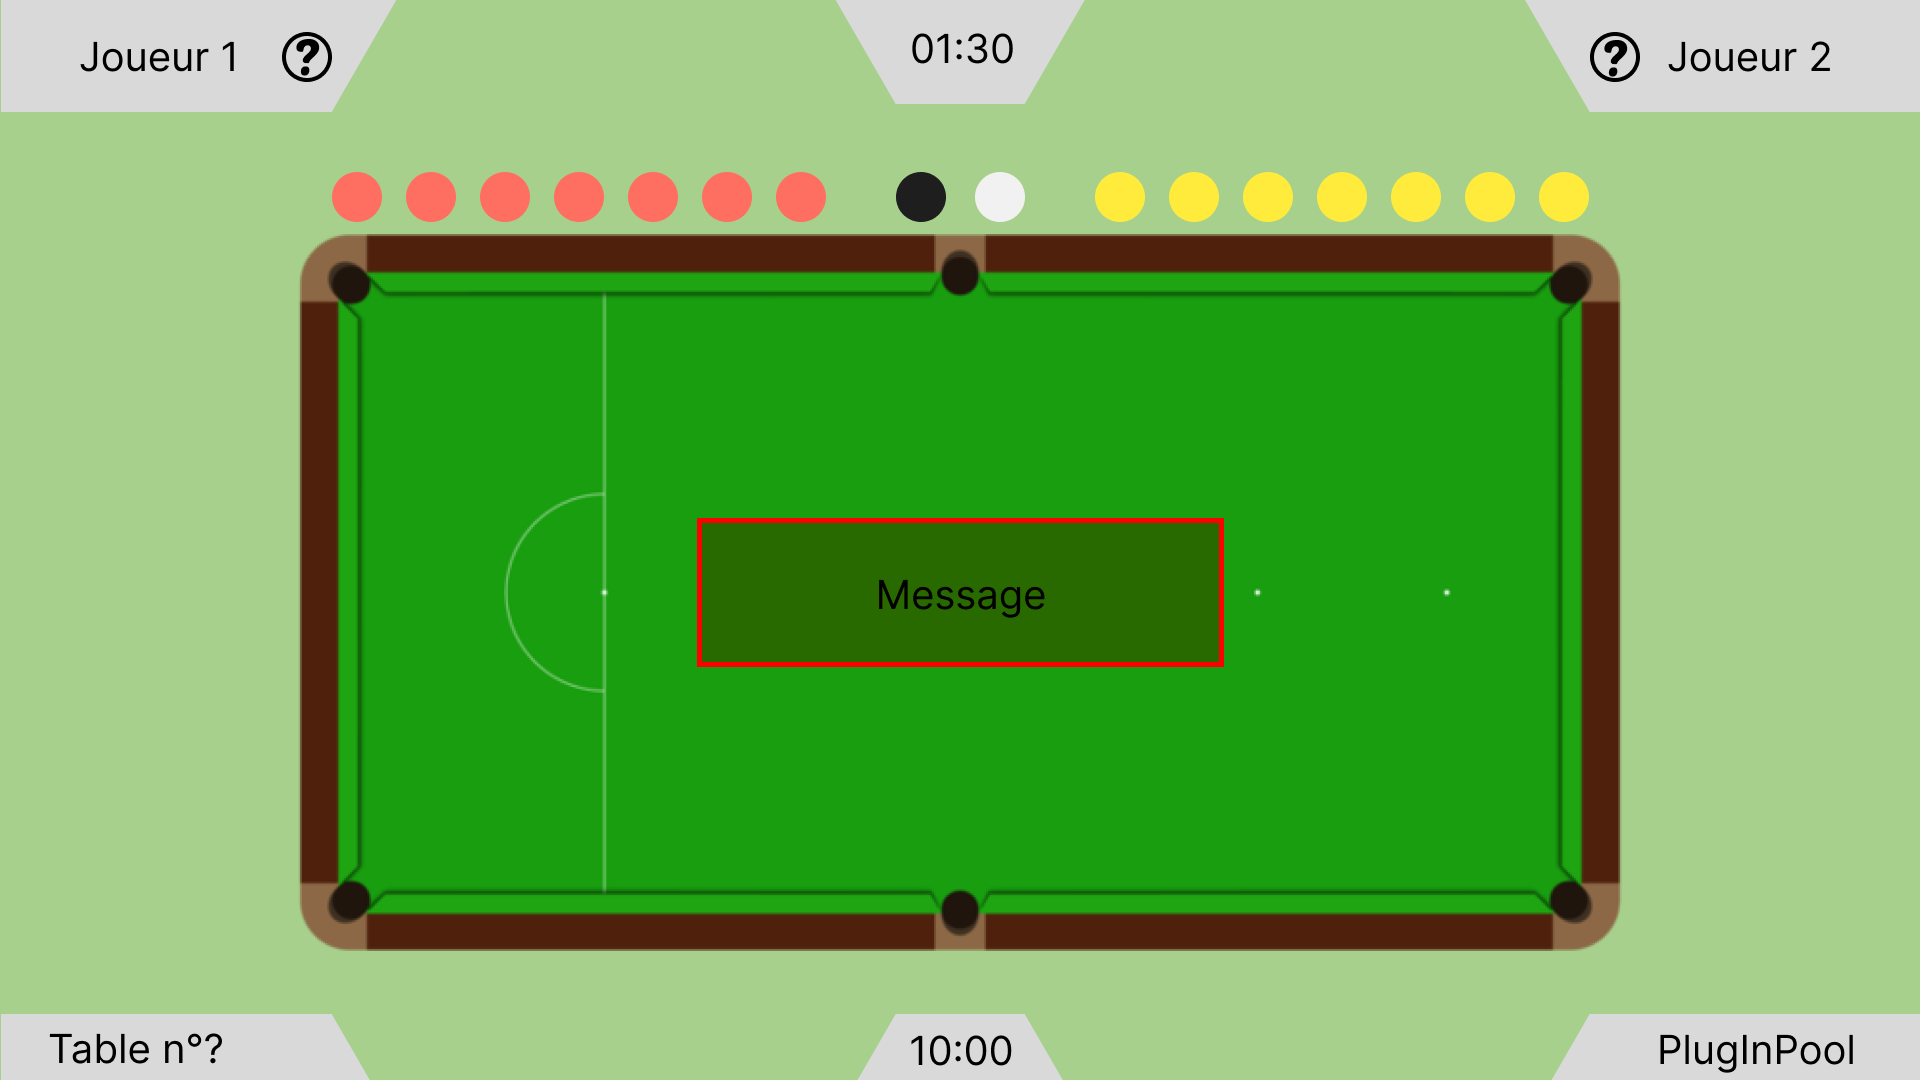
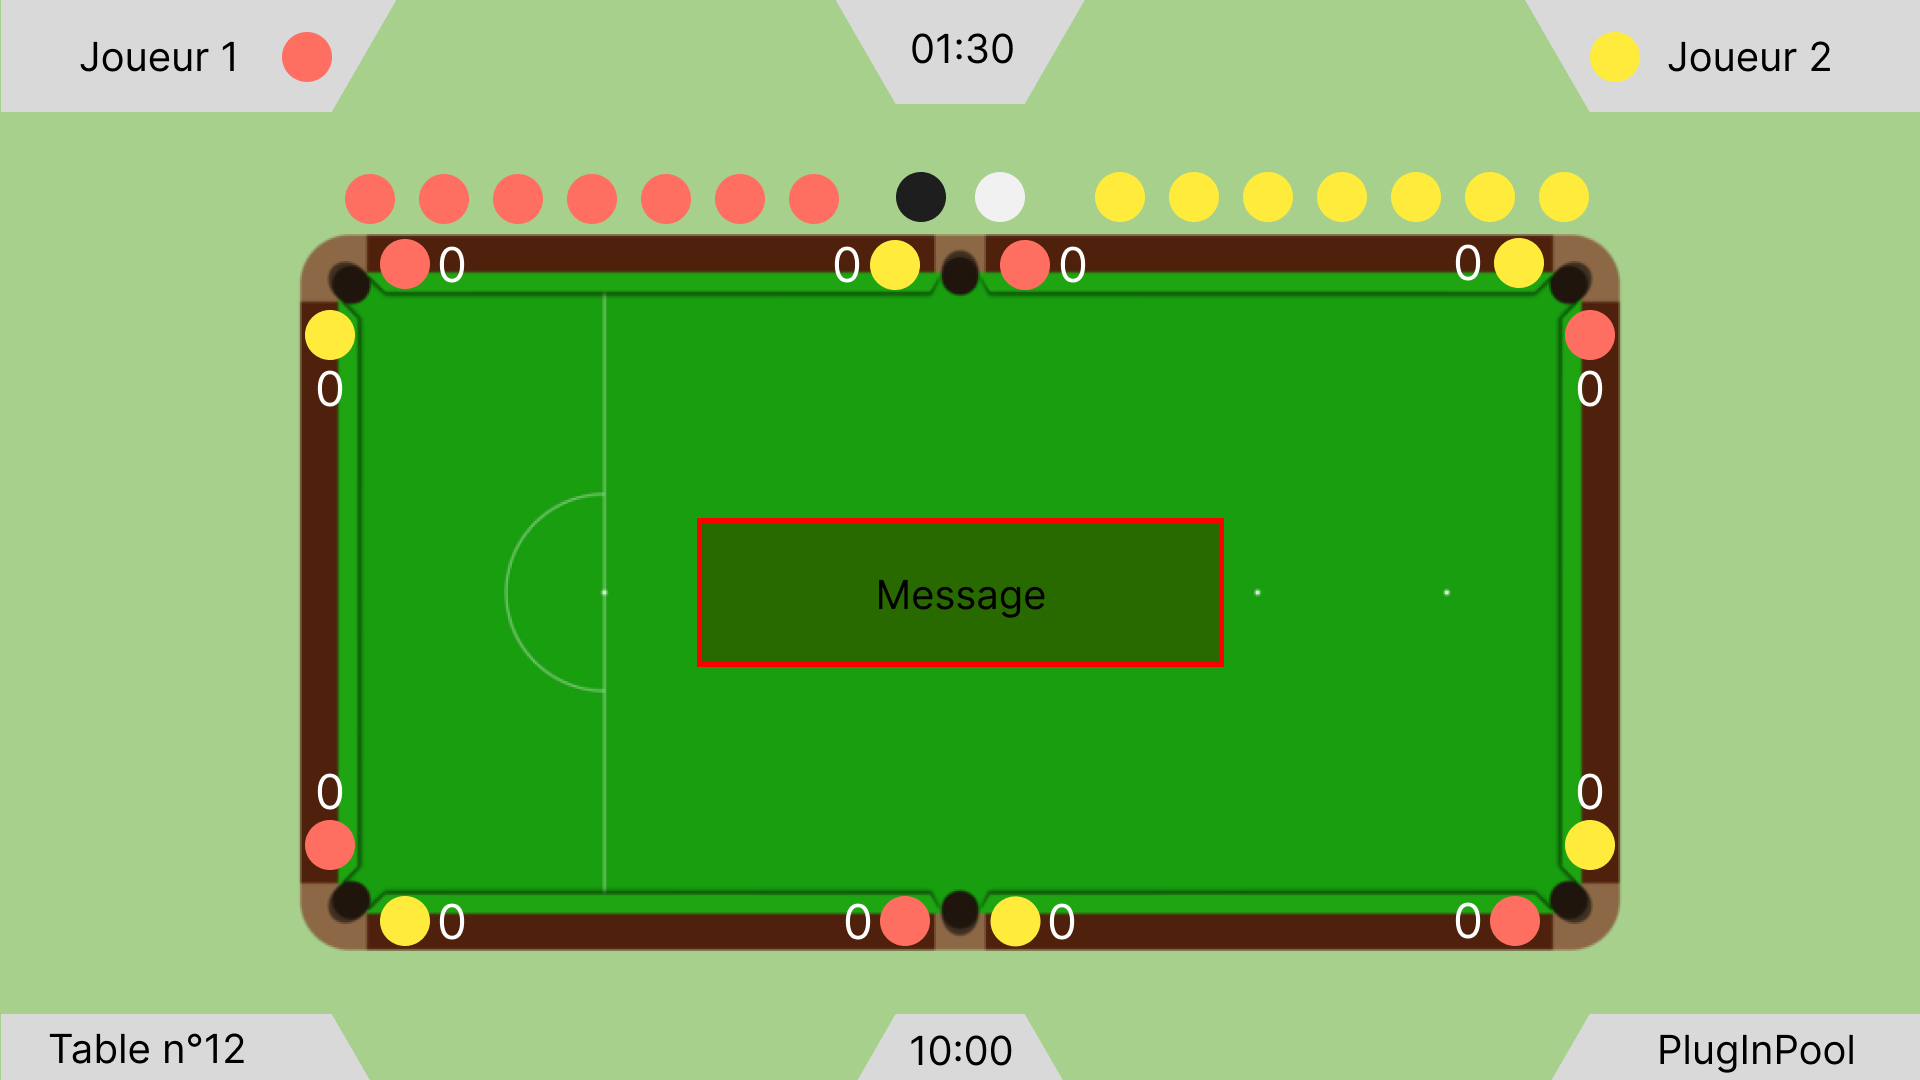
Ajouter constantes

diff --git a/plug-in-pool-visualisation/pluginpool.css b/plug-in-pool-visualisation/pluginpool.css
@@ -197,6 +197,11 @@ QLabel#bouleNoir {
     background-size: contain;
 }
 
+QWidget#poche {
+    background-color: none;
+    background-position: center;
+}
+
 .bouleJaunePoche {
     background-image: url(:/bouleJauneQT.png);
     background-color: yellow;
@@ -312,6 +317,7 @@ QLabel#bouleJauneImagePoche1{
     background-position: center;
     background-repeat: no-repeat;
     background-size: contain;
+
 }
 
 QLabel#bouleJauneImagePoche2{

diff --git a/plug-in-pool-visualisation/ecranmatch.cpp b/plug-in-pool-visualisation/ecranmatch.cpp
@@ -80,13 +80,13 @@ QWidget* EcranMatch::getEcran() const
 
 QLabel* EcranMatch::getJoueurUnLabel() const
 {
-    qDebug() << "Adresse QLabel (affichageJoueurUn): " << affichageJoueurUn;
+    qDebug() << "Adresse QLabel affichageJoueurUn: " << affichageJoueurUn;
     return affichageJoueurUn;
 }
 
 QLabel* EcranMatch::getJoueurDeuxLabel() const
 {
-    qDebug() << "Adresse QLabel (affichageJoueurDeux): " << affichageJoueurDeux;
+    qDebug() << "Adresse QLabel affichageJoueurDeux: " << affichageJoueurDeux;
     return affichageJoueurDeux;
 }
 
@@ -102,71 +102,48 @@ void EcranMatch::demarrerChronometre()
     connect(chronometre, &QTimer::timeout, this, [=]() {
         secondesEcoulees++;
 
-        int minutes  = secondesEcoulees / 60;
-        int secondes = secondesEcoulees % 60;
+        int minutes  = secondesEcoulees / MINUTE;
+        int secondes = secondesEcoulees % MINUTE;
 
-        QString temps = QString("%1:%2")
-                          .arg(minutes, 2, 10, QChar('0'))
-                          .arg(secondes, 2, 10, QChar('0'));
+        QString temps =
+          QString("%1:%2")
+            .arg(minutes, LARGEUR_MINUTE, BASE_DECIMALE, QChar('0'))
+            .arg(secondes, LARGEUR_SECONDE, BASE_DECIMALE, QChar('0'));
         labelChronometre->setText(temps);
     });
 
-    chronometre->start(1000);
+    chronometre->start(TEMPS_INCREMENTATION);
 }
 
 void EcranMatch::genererBoules()
 {
-    for(int i = 0; i < 7; ++i)
+    for(int i = 0; i < NB_BOULES_ROUGES; ++i)
     {
         QLabel* bouleRouge = new QLabel(ecran);
-
         bouleRouge->setObjectName("bouleRouge");
-        bouleRouge->move(20 + i * 35, 20);
-        bouleRouge->show();
         espaceBoulesRouges->addWidget(bouleRouge);
         boulesRouges.append(bouleRouge);
     }
 
-    for(int i = 0; i < 7; ++i)
+    for(int i = 0; i < NB_BOULES_JAUNES; ++i)
     {
         QLabel* bouleJaune = new QLabel(ecran);
-
         bouleJaune->setObjectName("bouleJaune");
-        bouleJaune->move(20 + i * 35, 20);
-        bouleJaune->show();
         espaceBoulesJaunes->addWidget(bouleJaune);
         boulesJaunes.append(bouleJaune);
     }
 
     QLabel* bouleBlanche = new QLabel(ecran);
     bouleBlanche->setObjectName("bouleBlanche");
-    bouleBlanche->show();
     espaceBouleBlanche->addWidget(bouleBlanche);
 
     QLabel* bouleNoir = new QLabel(ecran);
     bouleNoir->setObjectName("bouleNoir");
-    bouleNoir->show();
     espaceBouleNoir->addWidget(bouleNoir);
 }
 
 void EcranMatch::initialiserPochesTable()
 {
-    espaceTableBillard->setRowStretch(0, 1);
-    espaceTableBillard->setRowStretch(1, 0);
-    espaceTableBillard->setRowStretch(2, 1);
-
-    for(int i = 0; i < 7; ++i)
-    {
-        if(i == 3)
-        {
-            espaceTableBillard->setColumnStretch(i, 0);
-        }
-        else
-        {
-            espaceTableBillard->setColumnStretch(i, 1);
-        }
-    }
-
     for(int i = 0; i < NB_POCHES; ++i)
     {
         bouleRougeImagePoche[i]      = new QLabel(ecran);
@@ -183,22 +160,17 @@ void EcranMatch::initialiserPochesTable()
         compteurBoulesJaunesPoche[i]->setObjectName(
           QString("compteurBoulesJaunesPoche%1").arg(i));
 
-        bouleRougeImagePoche[i]->show();
-        compteurBoulesRougesPoche[i]->show();
-        bouleJauneImagePoche[i]->show();
-        compteurBoulesJaunesPoche[i]->show();
+        QWidget* poche = new QWidget(ecran);
+        poche->setObjectName("poche");
+        QVBoxLayout* contenuPoche = new QVBoxLayout(poche);
 
-        espaceTableBillard->addWidget(bouleRougeImagePoche[i],
+        contenuPoche->addWidget(bouleRougeImagePoche[i]);
+        contenuPoche->addWidget(compteurBoulesRougesPoche[i]);
+        contenuPoche->addWidget(bouleJauneImagePoche[i]);
+        contenuPoche->addWidget(compteurBoulesJaunesPoche[i]);
+
+        espaceTableBillard->addWidget(poche,
                                       lignesPoches[i],
                                       colonnesPoches[i]);
-        espaceTableBillard->addWidget(compteurBoulesRougesPoche[i],
-                                      lignesPoches[i],
-                                      colonnesPoches[i] + 1);
-        espaceTableBillard->addWidget(bouleJauneImagePoche[i],
-                                      lignesPoches[i],
-                                      colonnesPoches[i] + 1);
-        espaceTableBillard->addWidget(compteurBoulesJaunesPoche[i],
-                                      lignesPoches[i],
-                                      colonnesPoches[i] + 1);
     }
 }

diff --git a/plug-in-pool-visualisation/pluginpool.cpp b/plug-in-pool-visualisation/pluginpool.cpp
@@ -31,48 +31,37 @@ PlugInPool::~PlugInPool()
 void PlugInPool::bluetoothConnecte()
 {
     EcranAccueil* ecranAccueil = ecranPlugInPool->getEcranAccueil();
-    if(ecranAccueil && ecranAccueil->getConnexionBluetoothLabel())
-    {
-        ecranAccueil->getConnexionBluetoothLabel()->setText(
-          "Bluetooth Connecté");
-        ecranAccueil->getConnexionBluetoothLabel()->setProperty("class",
-                                                                "connecte");
-        ecranAccueil->getConnexionBluetoothLabel()->style()->unpolish(
-          ecranAccueil->getConnexionBluetoothLabel());
-        ecranAccueil->getConnexionBluetoothLabel()->style()->polish(
-          ecranAccueil->getConnexionBluetoothLabel());
-        ecranAccueil->getConnexionBluetoothLabel()->update();
-    }
+    ecranAccueil->getConnexionBluetoothLabel()->setText("Bluetooth Connecté");
+    ecranAccueil->getConnexionBluetoothLabel()->setProperty("class",
+                                                            "connecte");
+    ecranAccueil->getConnexionBluetoothLabel()->style()->polish(
+      ecranAccueil->getConnexionBluetoothLabel());
 }
 
 void PlugInPool::configurationRecu(int     numeroTable,
-                                   QString joueur1,
-                                   QString joueur2)
+                                   QString prenomJoueur1,
+                                   QString prenomJoueur2)
 {
-    qDebug() << "Joueurs reçus :" << joueur1 << "et" << joueur2;
+    qDebug() << "Joueurs reçus :" << prenomJoueur1 << "et" << prenomJoueur2;
 
-    match->enregistrerJoueurs(joueur1, joueur2);
+    match->enregistrerJoueurs(prenomJoueur1, prenomJoueur2);
 
     EcranAccueil* ecranAccueil = ecranPlugInPool->getEcranAccueil();
     EcranMatch*   ecranMatch   = ecranPlugInPool->getEcranMatch();
     QLabel*       configurationPartieStyle =
       ecranAccueil->getConfigurationPartieLabel();
 
-    if(ecranAccueil && configurationPartieStyle)
-    {
-        ecranMatch->getJoueurUnLabel()->setText(joueur1);
-        ecranMatch->getJoueurDeuxLabel()->setText(joueur2);
-        ecranMatch->getNumeroTableLabel()->setText(
-          "Table n°" + QString::number(numeroTable));
+    ecranMatch->getJoueurUnLabel()->setText(prenomJoueur1);
+    ecranMatch->getJoueurDeuxLabel()->setText(prenomJoueur2);
+    ecranMatch->getNumeroTableLabel()->setText("Table n°" +
+                                               QString::number(numeroTable));
+    configurationPartieStyle->setText("Configuration Terminée");
 
-        configurationPartieStyle->setText("Configuration Terminée");
+    mettreAJourStyleConfigurationPartie(configurationPartieStyle);
 
-        mettreAJourStyleConfigurationPartie(configurationPartieStyle);
-
-        QTimer::singleShot(TEMPS_AVANT_LANCEMENT_RENCONTRE,
-                           this,
-                           &PlugInPool::changerEcranMatch);
-    }
+    QTimer::singleShot(TEMPS_AVANT_LANCEMENT_RENCONTRE,
+                       this,
+                       &PlugInPool::changerEcranMatch);
 }
 
 void PlugInPool::mettreAJourStyleConfigurationPartie(QLabel* configurationStyle)
@@ -80,19 +69,14 @@ void PlugInPool::mettreAJourStyleConfigurationPartie(QLabel* configurationStyle)
     if(configurationStyle)
     {
         configurationStyle->setProperty("class", "configure");
-        configurationStyle->style()->unpolish(configurationStyle);
         configurationStyle->style()->polish(configurationStyle);
-        configurationStyle->update();
     }
 }
 
 void PlugInPool::changerEcranMatch()
 {
-    if(ecranPlugInPool)
-    {
-        EcranMatch* ecranMatch = ecranPlugInPool->getEcranMatch();
-        qDebug() << "Passage à l'écran de match !";
-        ecranPlugInPool->afficherEcranMatch();
-        ecranMatch->demarrerChronometre();
-    }
+    EcranMatch* ecranMatch = ecranPlugInPool->getEcranMatch();
+    qDebug() << "Passage à l'écran de match !";
+    ecranPlugInPool->afficherEcranMatch();
+    ecranMatch->demarrerChronometre();
 }

diff --git a/plug-in-pool-visualisation/communicationbluetooth.cpp b/plug-in-pool-visualisation/communicationbluetooth.cpp
@@ -22,7 +22,7 @@ CommunicationBluetooth::CommunicationBluetooth(QObject* parent) :
 
     QBluetoothUuid uuid(QBluetoothUuid::Rfcomm);
 
-    serveur->listen(uuid, "MyBluetoothService");
+    serveur->listen(uuid, "BluetoothPlugInPool^");
 }
 
 CommunicationBluetooth::~CommunicationBluetooth()
@@ -39,12 +39,12 @@ CommunicationBluetooth::~CommunicationBluetooth()
 
 void CommunicationBluetooth::nouveauClient()
 {
-    qDebug() << "Tentative de connexion d'un nouveau client...";
+    qDebug() << "Tentative de connexion";
     socket = serveur->nextPendingConnection();
 
     if(socket)
     {
-        qDebug() << "Client connecté avec succès!";
+        qDebug() << "Client connecté";
         connect(socket, SIGNAL(disconnected()), socket, SLOT(deleteLater()));
         emit clientConnecte();
     }
@@ -78,9 +78,13 @@ void CommunicationBluetooth::lireTrame()
                 {
                     int numeroTable =
                       contenuTrame[POSITION_NUMERO_TABLE].toInt();
-                    QString joueur1 = contenuTrame[POSITION_JOUEUR_1];
-                    QString joueur2 = contenuTrame[POSITION_JOUEUR_2];
-                    emit    trameRencontreRecue(numeroTable, joueur1, joueur2);
+                    QString prenomJoueur1 =
+                      contenuTrame[POSITION_PRENOM_JOUEUR_1];
+                    QString prenomJoueur2 =
+                      contenuTrame[POSITION_PRENOM_JOUEUR_2];
+                    emit trameRencontreRecue(numeroTable,
+                                             prenomJoueur1,
+                                             prenomJoueur2);
                     break;
                 }
                 case TRAME_MANCHE:

diff --git a/plug-in-pool-visualisation/communicationbluetooth.h b/plug-in-pool-visualisation/communicationbluetooth.h
@@ -13,10 +13,10 @@
 
 #define POSITION_TYPE_TRAME 0
 
-#define TRAME_RENCONTRE       'R'
-#define POSITION_NUMERO_TABLE 1
-#define POSITION_JOUEUR_1     2
-#define POSITION_JOUEUR_2     3
+#define TRAME_RENCONTRE          'R'
+#define POSITION_NUMERO_TABLE    1
+#define POSITION_PRENOM_JOUEUR_1 2
+#define POSITION_PRENOM_JOUEUR_2 3
 
 #define TRAME_MANCHE            'M'
 #define TRAME_CHANGEMENT_JOUEUR 'C'
@@ -37,7 +37,9 @@ class CommunicationBluetooth : public QObject
 
   signals:
     void clientConnecte();
-    void trameRencontreRecue(int numeroTable, QString joueur1, QString joueur2);
+    void trameRencontreRecue(int     numeroTable,
+                             QString prenomJoueur1,
+                             QString prenomJoueur2);
 
   private slots:
     void nouveauClient();

diff --git a/plug-in-pool-visualisation/match.cpp b/plug-in-pool-visualisation/match.cpp
@@ -8,15 +8,15 @@ Match::Match(const QString& nom) :
 {
 }
 
-void Match::enregistrerJoueurs(const QString& nomJoueur1,
-                               const QString& nomJoueur2)
+void Match::enregistrerJoueurs(const QString& prenomJoueur1,
+                               const QString& prenomJoueur2)
 {
     joueurs.clear();
 
     for(int i = 0; i < NB_JOUEURS; ++i)
     {
-        QString nom    = (i == 0) ? nomJoueur1 : nomJoueur2;
-        QString prenom = "";
+        QString prenom = (i == 0) ? prenomJoueur1 : prenomJoueur2;
+        QString nom    = "";
         Joueur  joueur(nom, prenom, i);
         joueurs.append(joueur);
     }

diff --git a/plug-in-pool-visualisation/ecranmatch.h b/plug-in-pool-visualisation/ecranmatch.h
@@ -3,10 +3,19 @@
 
 #include <QtWidgets>
 
-#define NB_POCHES 6
+#define NB_POCHES            6
+#define TEMPS_INCREMENTATION 1000 // ms
 
-const int lignesPoches[NB_POCHES]   = { 0, 0, 0, 2, 2, 2 };
-const int colonnesPoches[NB_POCHES] = { 4, 2, 0, 5, 3, 1 };
+#define NB_BOULES_ROUGES 7
+#define NB_BOULES_JAUNES 7
+
+#define MINUTE          60 // s
+#define LARGEUR_MINUTE  2
+#define LARGEUR_SECONDE 2
+#define BASE_DECIMALE   10
+
+const int lignesPoches[NB_POCHES]   = { 0, 2, 0, 2, 0, 2 };
+const int colonnesPoches[NB_POCHES] = { 2, 2, 1, 1, 0, 0 };
 
 class EcranMatch : public QObject
 {

diff --git a/plug-in-pool-visualisation/pluginpool.h b/plug-in-pool-visualisation/pluginpool.h
@@ -28,7 +28,9 @@ class PlugInPool : public QObject
   private slots:
     void bluetoothConnecte();
     void changerEcranMatch();
-    void configurationRecu(int numeroTable, QString joueur1, QString joueur2);
+    void configurationRecu(int     numeroTable,
+                           QString prenomJoueur1,
+                           QString prenomJoueur2);
     void mettreAJourStyleConfigurationPartie(QLabel* configurationStyle);
 };
 

diff --git a/plug-in-pool-visualisation/match.h b/plug-in-pool-visualisation/match.h
@@ -45,8 +45,8 @@ class Match
   public:
     Match(const QString& nom);
 
-    void enregistrerJoueurs(const QString& nomJoueur1,
-                            const QString& nomJoueur2);
+    void enregistrerJoueurs(const QString& prenomJoueur1,
+                            const QString& prenomJoueur2);
 };
 
 #endif // MATCH_H

diff --git a/plug-in-pool-visualisation/ecranpluginpool.cpp b/plug-in-pool-visualisation/ecranpluginpool.cpp
@@ -54,6 +54,7 @@ EcranPlugInPool::EcranPlugInPool(QWidget* parent) :
 #endif
 
     afficherEcranAccueil();
+    // afficherEcranMatch();
 }
 
 EcranPlugInPool::~EcranPlugInPool()

diff --git a/README.md b/README.md
@@ -194,8 +194,8 @@ Sur l'écran, les joueurs pourront visualiser en continu :
   </tr>
   <tr>
     <td>Afficher un écran d'accueil</td>
-    <td style="text-align: center;">x</td>
     <td style="text-align: center;"></td>
+    <td style="text-align: center;">x</td>
     <td style="text-align: center;"></td>
   </tr>
   <tr>
@@ -218,8 +218,8 @@ Sur l'écran, les joueurs pourront visualiser en continu :
   </tr>
   <tr>
     <td>Dialoguer avec le terminal mobile</td>
-    <td style="text-align: center;">x</td>
     <td style="text-align: center;"></td>
+    <td style="text-align: center;">x</td>
     <td style="text-align: center;"></td>
   </tr>
 </table>
